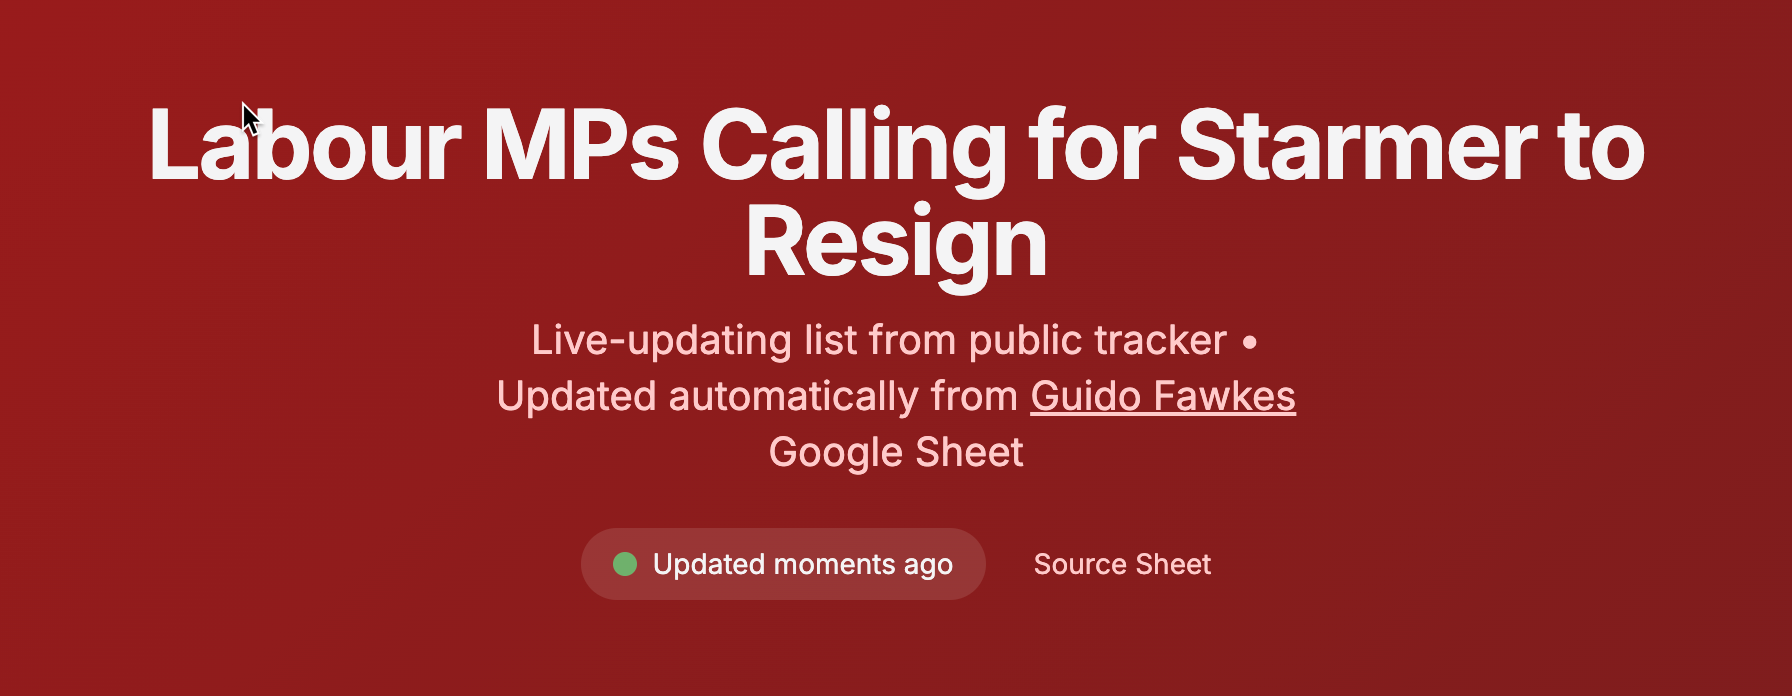
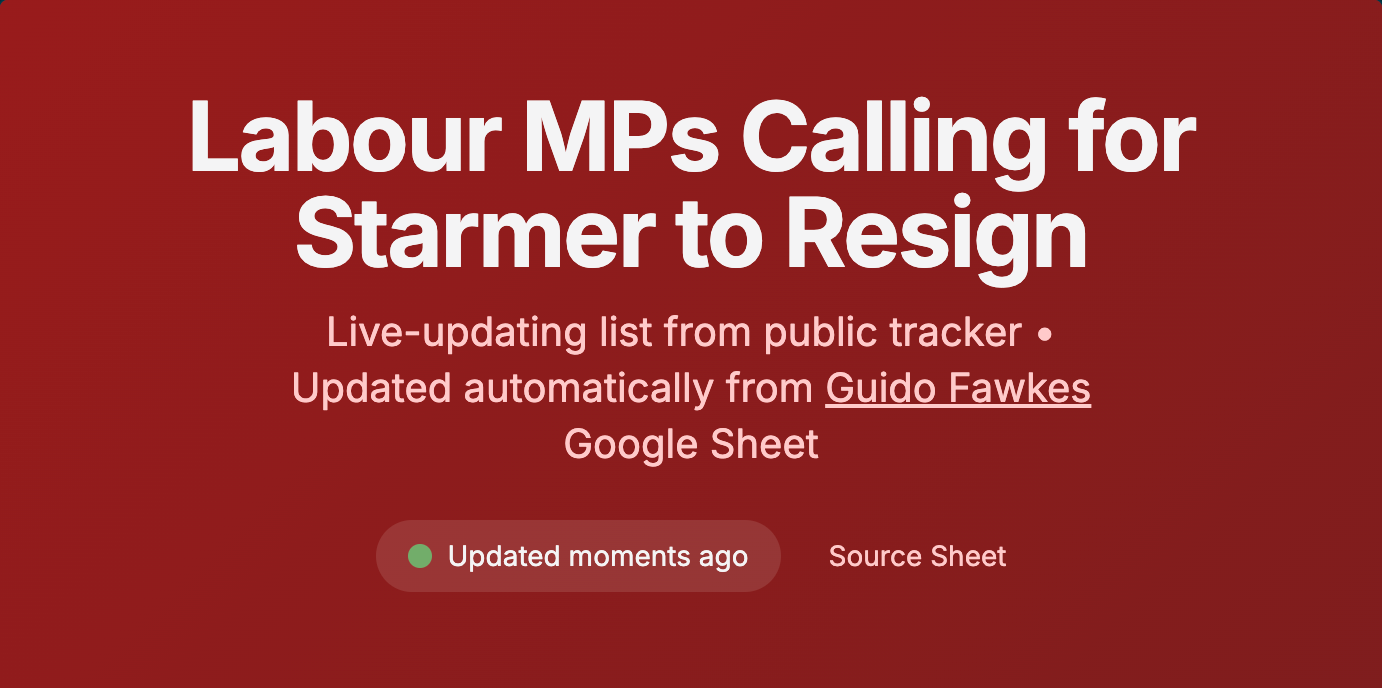
Fix constituency
Fix constituency search and update sorting logic

Enhances the search functionality to include constituency matches
in addition to name matches. Updates the sorting logic to use
'Reverse Order' as the default and adjusts button labels and icons
accordingly.

Improves user experience by allowing more flexible search options
and providing a clearer sorting mechanism.

Changed region(s): [[0.0622, 0.1221, 0.9334, 0.4273], [0.1867, 0.4578, 0.809, 0.702], [0.2489, 0.7326, 0.7467, 0.8852]]

diff --git a/index.html b/index.html
@@ -70,8 +70,8 @@
                 <div class="flex gap-3 w-full sm:w-auto">
                     <button onclick="toggleSort()" id="sort-btn"
                         class="flex-1 sm:flex-none px-5 py-3 bg-zinc-800 hover:bg-zinc-700 border border-zinc-700 rounded-xl flex items-center justify-center gap-2 transition-colors">
-                        <i id="sort-icon" class="fa-solid fa-list-ol"></i>
-                        <span id="sort-text" class="hidden sm:inline">Original Order</span>
+                        <i id="sort-icon" class="fa-solid fa-arrow-down-wide-short"></i>
+                        <span id="sort-text" class="hidden sm:inline">Reverse Order</span>
                     </button>
                 </div>
             </div>
@@ -103,7 +103,7 @@
     <script src="https://cdnjs.cloudflare.com/ajax/libs/PapaParse/5.4.1/papaparse.min.js"></script>
     <script>
         let allMPs = [];
-        let currentSort = 'original';
+        let currentSort = 'reverse';
         let parliamentMembers = {}; // normalised name -> { id }
 
 
@@ -159,7 +159,7 @@
             });
 
             updateStats();
-            renderList(allMPs);
+            filterList();
             document.getElementById('last-updated').textContent = 'Updated moments ago';
 
             loadParliamentData();
@@ -207,9 +207,12 @@
             let filtered = allMPs;
 
             if (searchTerm) {
-                filtered = filtered.filter(mp =>
-                    mp.name.toLowerCase().includes(searchTerm)
-                );
+                filtered = filtered.filter(mp => {
+                    const nameMatch = mp.name.toLowerCase().includes(searchTerm);
+                    const member = parliamentMembers[mp.name.toLowerCase()];
+                    const constituencyMatch = member?.constituency?.toLowerCase().includes(searchTerm);
+                    return nameMatch || constituencyMatch;
+                });
             }
 
             if (currentSort === 'alpha') {
@@ -222,18 +225,18 @@
         }
 
         function toggleSort() {
-            if (currentSort === 'original') {
-                currentSort = 'alpha';
-                document.getElementById('sort-icon').className = 'fa-solid fa-sort-alpha-down';
-                document.getElementById('sort-text').textContent = 'Sort A-Z';
-            } else if (currentSort === 'alpha') {
-                currentSort = 'reverse';
-                document.getElementById('sort-icon').className = 'fa-solid fa-arrow-down-wide-short';
-                document.getElementById('sort-text').textContent = 'Reverse Order';
-            } else {
+            if (currentSort === 'reverse') {
                 currentSort = 'original';
                 document.getElementById('sort-icon').className = 'fa-solid fa-list-ol';
                 document.getElementById('sort-text').textContent = 'Original Order';
+            } else if (currentSort === 'original') {
+                currentSort = 'alpha';
+                document.getElementById('sort-icon').className = 'fa-solid fa-sort-alpha-down';
+                document.getElementById('sort-text').textContent = 'Sort A-Z';
+            } else {
+                currentSort = 'reverse';
+                document.getElementById('sort-icon').className = 'fa-solid fa-arrow-down-wide-short';
+                document.getElementById('sort-text').textContent = 'Reverse Order';
             }
             filterList();
         }